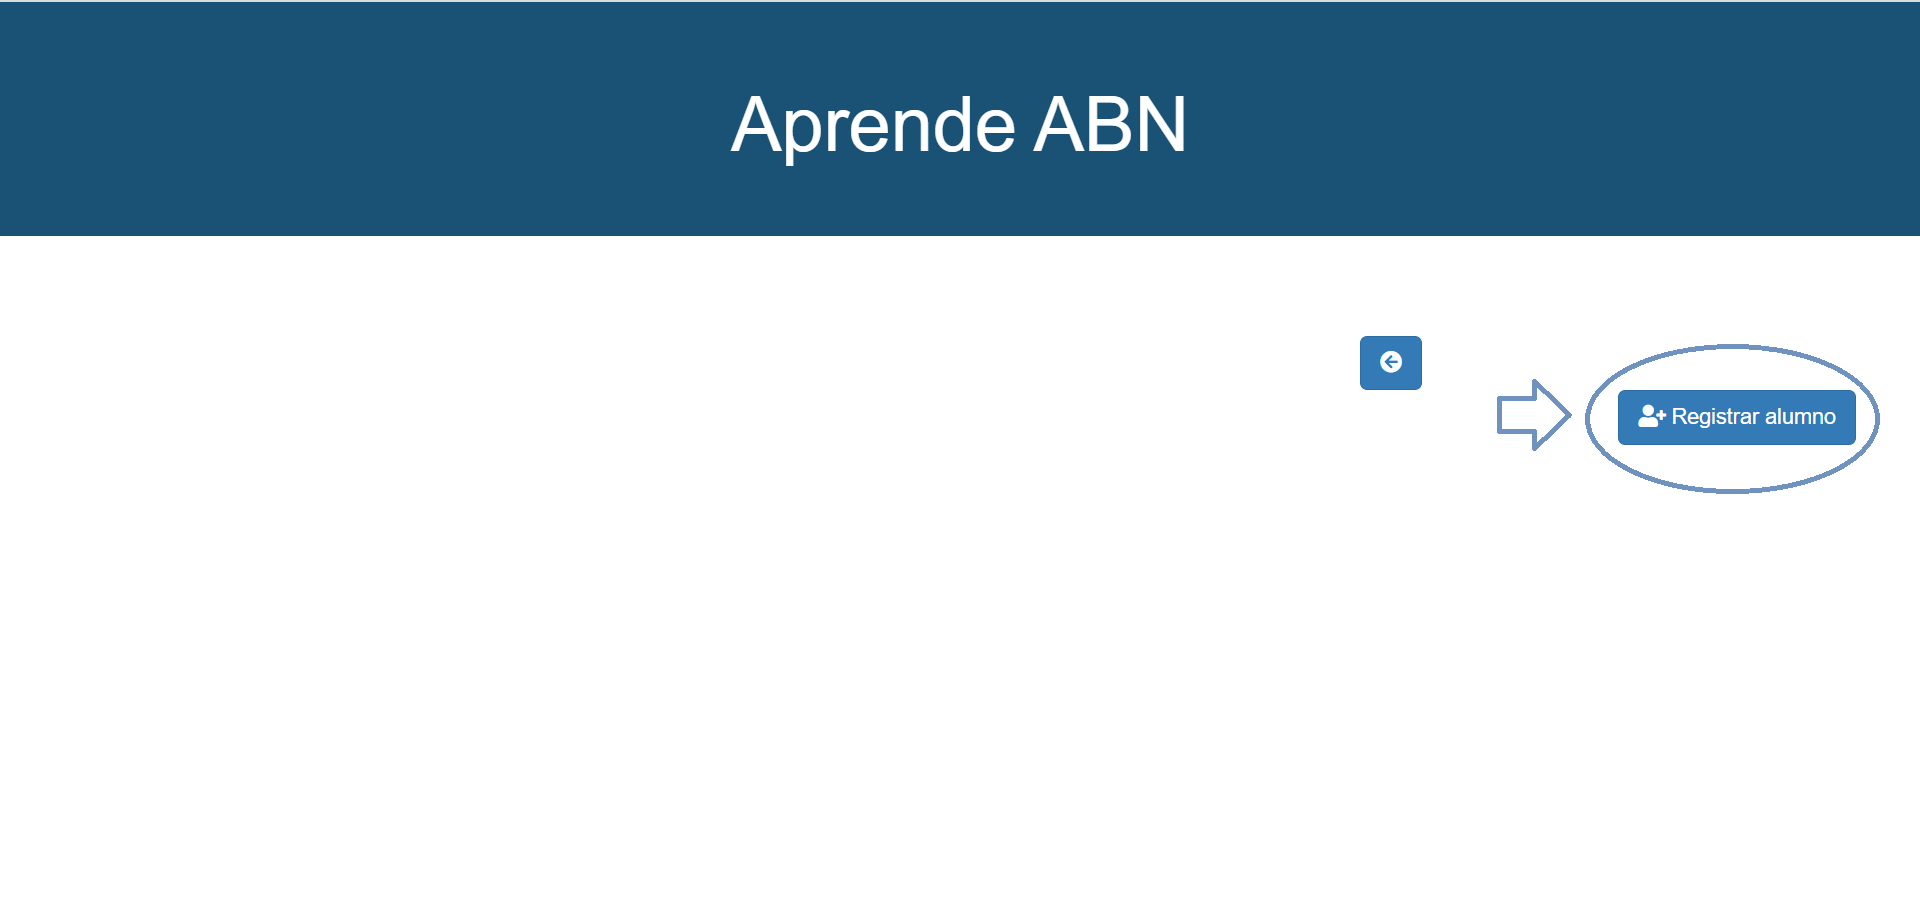
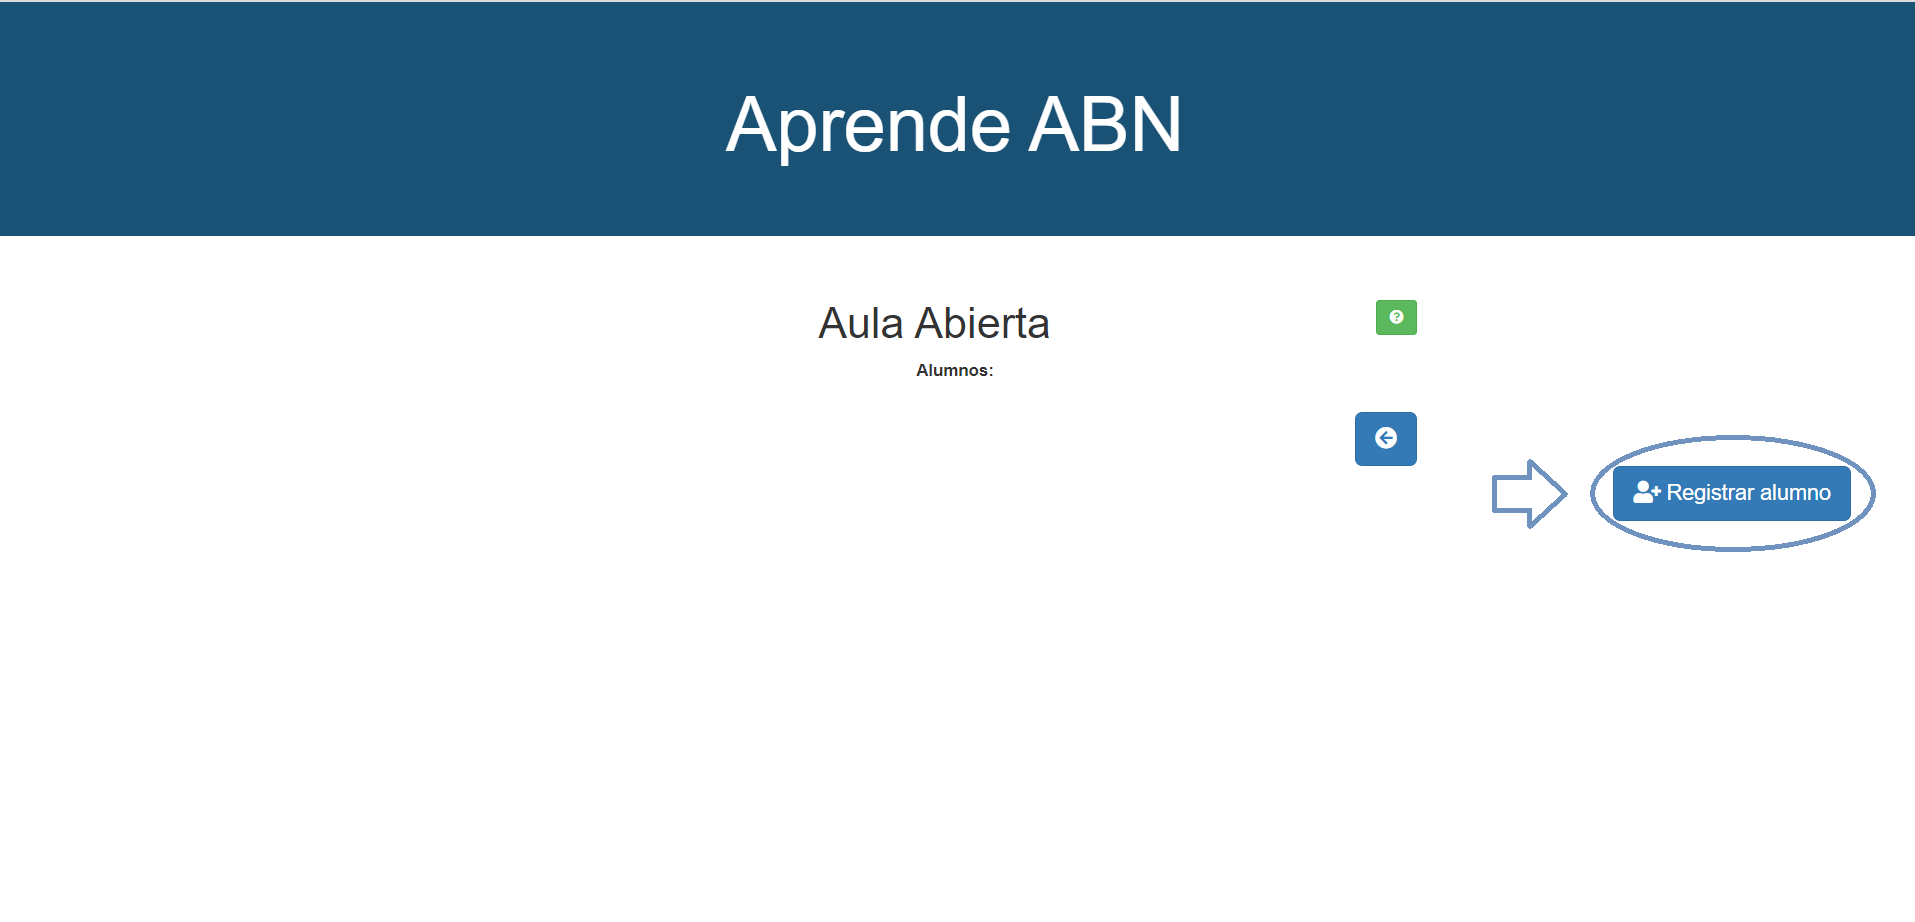
v1.0.11 Mejoras

diff --git a/cliente/src/controlWeb.js b/cliente/src/controlWeb.js
@@ -134,9 +134,10 @@ function ControlWeb($){
 			var nclase=$('#nclase').val();
 			var profesor=$('#profesor').val();
 			var numero=$('#numero').val();
-			if(nclase!=""){
+			if(nclase!="" && profesor!="" && numero!=""){
 				ws.crearClase(nclase,profesor,numero);
 			}
+				
 		});
 		$('#btnEliminarClase').on('click',function(){
 			var nclase=$('#nclase').val();
@@ -246,7 +247,7 @@ function ControlWeb($){
 	//Interfaz donde se listan todos los alumnos de una misma clase 
 	this.listarAlumnos=function(lista){
 		var cadena='<div id="mostrarLA">';
-		if(lista[0]!=undefined){
+		if(lista[0].nombre!=undefined){
 			cadena=cadena+'<button type="button" id="btnInfo" class="btn btn-success btn-sm pull-right"><i class="fas fa-question-circle"></i></button>';
 			cadena=cadena +'<h1>'+lista[0].clase+'</h1>';
 			cadena =cadena+ '<div class="list-group" >';
@@ -292,7 +293,11 @@ function ControlWeb($){
 			cw.mostrarModal(msg);
 		});
 		}else{
-			cadena=cadena+'<button type="button" id="btnInfo" class="btn btn-success btn-sm "><i class="fas fa-question-circle"></i></button>';
+			cadena=cadena+'<h1><button type="button" id="btnInfo" class="btn btn-success btn-sm pull-right"><i class="fas fa-question-circle"></i></button> </h1>';
+			cadena=cadena +'<h1>'+lista[0].nclase+'</h1>';
+			cadena =cadena+ '<div class="list-group" >';
+			cadena=cadena +'<label for ="Clases">Alumnos:</label>';
+			cadena =cadena+ '</div>';
 			cadena=cadena+'<button type="button" id="btnAtras" class="btn btn-primary btn-lg pull-right"><i class="fas fa-arrow-circle-left"></i></button>';
 			cadena =cadena+ '</div>';
 			$('#listarClases').append(cadena);
@@ -1826,5 +1831,14 @@ function ControlWeb($){
 	this.getRandomArbitrary=function(min, max) {
 		return Math.floor(Math.random() * (max - min) + min);
 	}
+
+	/*this.getRandomArray=function(){
+		var lista=[];
+		for(var i =0;i<10;i++){
+			lista[i]=cw.getRandomArbitrary(0,10);
+		}
+
+		return lista;
+	}*/
 
 }

diff --git a/cliente/src/clienteWS.js b/cliente/src/clienteWS.js
@@ -50,7 +50,7 @@ function ClienteWS(){
 				ws.listarAlumnos();
 			}else{
 				console.log("La clase no se ha creado correctamente: es indefinida");
-				cw.mostrarModal(" No se puede crear la clase ya que: <p>1.Ya existe una clase con ese nombre</p><p>2.No ha rellenado todos los campos</p>");
+				cw.mostrarModal(" No se puede crear la clase ya que:<p></p> Ya existe una clase con ese nombre");
 			}
 		});
 		this.socket.on("claseEliminada",function(data){

diff --git a/servidor/modelo.js b/servidor/modelo.js
@@ -109,6 +109,9 @@ function Clase(nclase, profesor,num, ABN){
 			var icono=alumno.icono;
 			lista.push({"nombre":nombre,"apellidos":apellido,"curso":curso,"clase":this.nombre,"icono": icono});
 		}
+		if (Object.keys(lista).length==0){
+			lista.push({"nclase":this.nombre});
+		}
 		
 		return lista;
 	}
